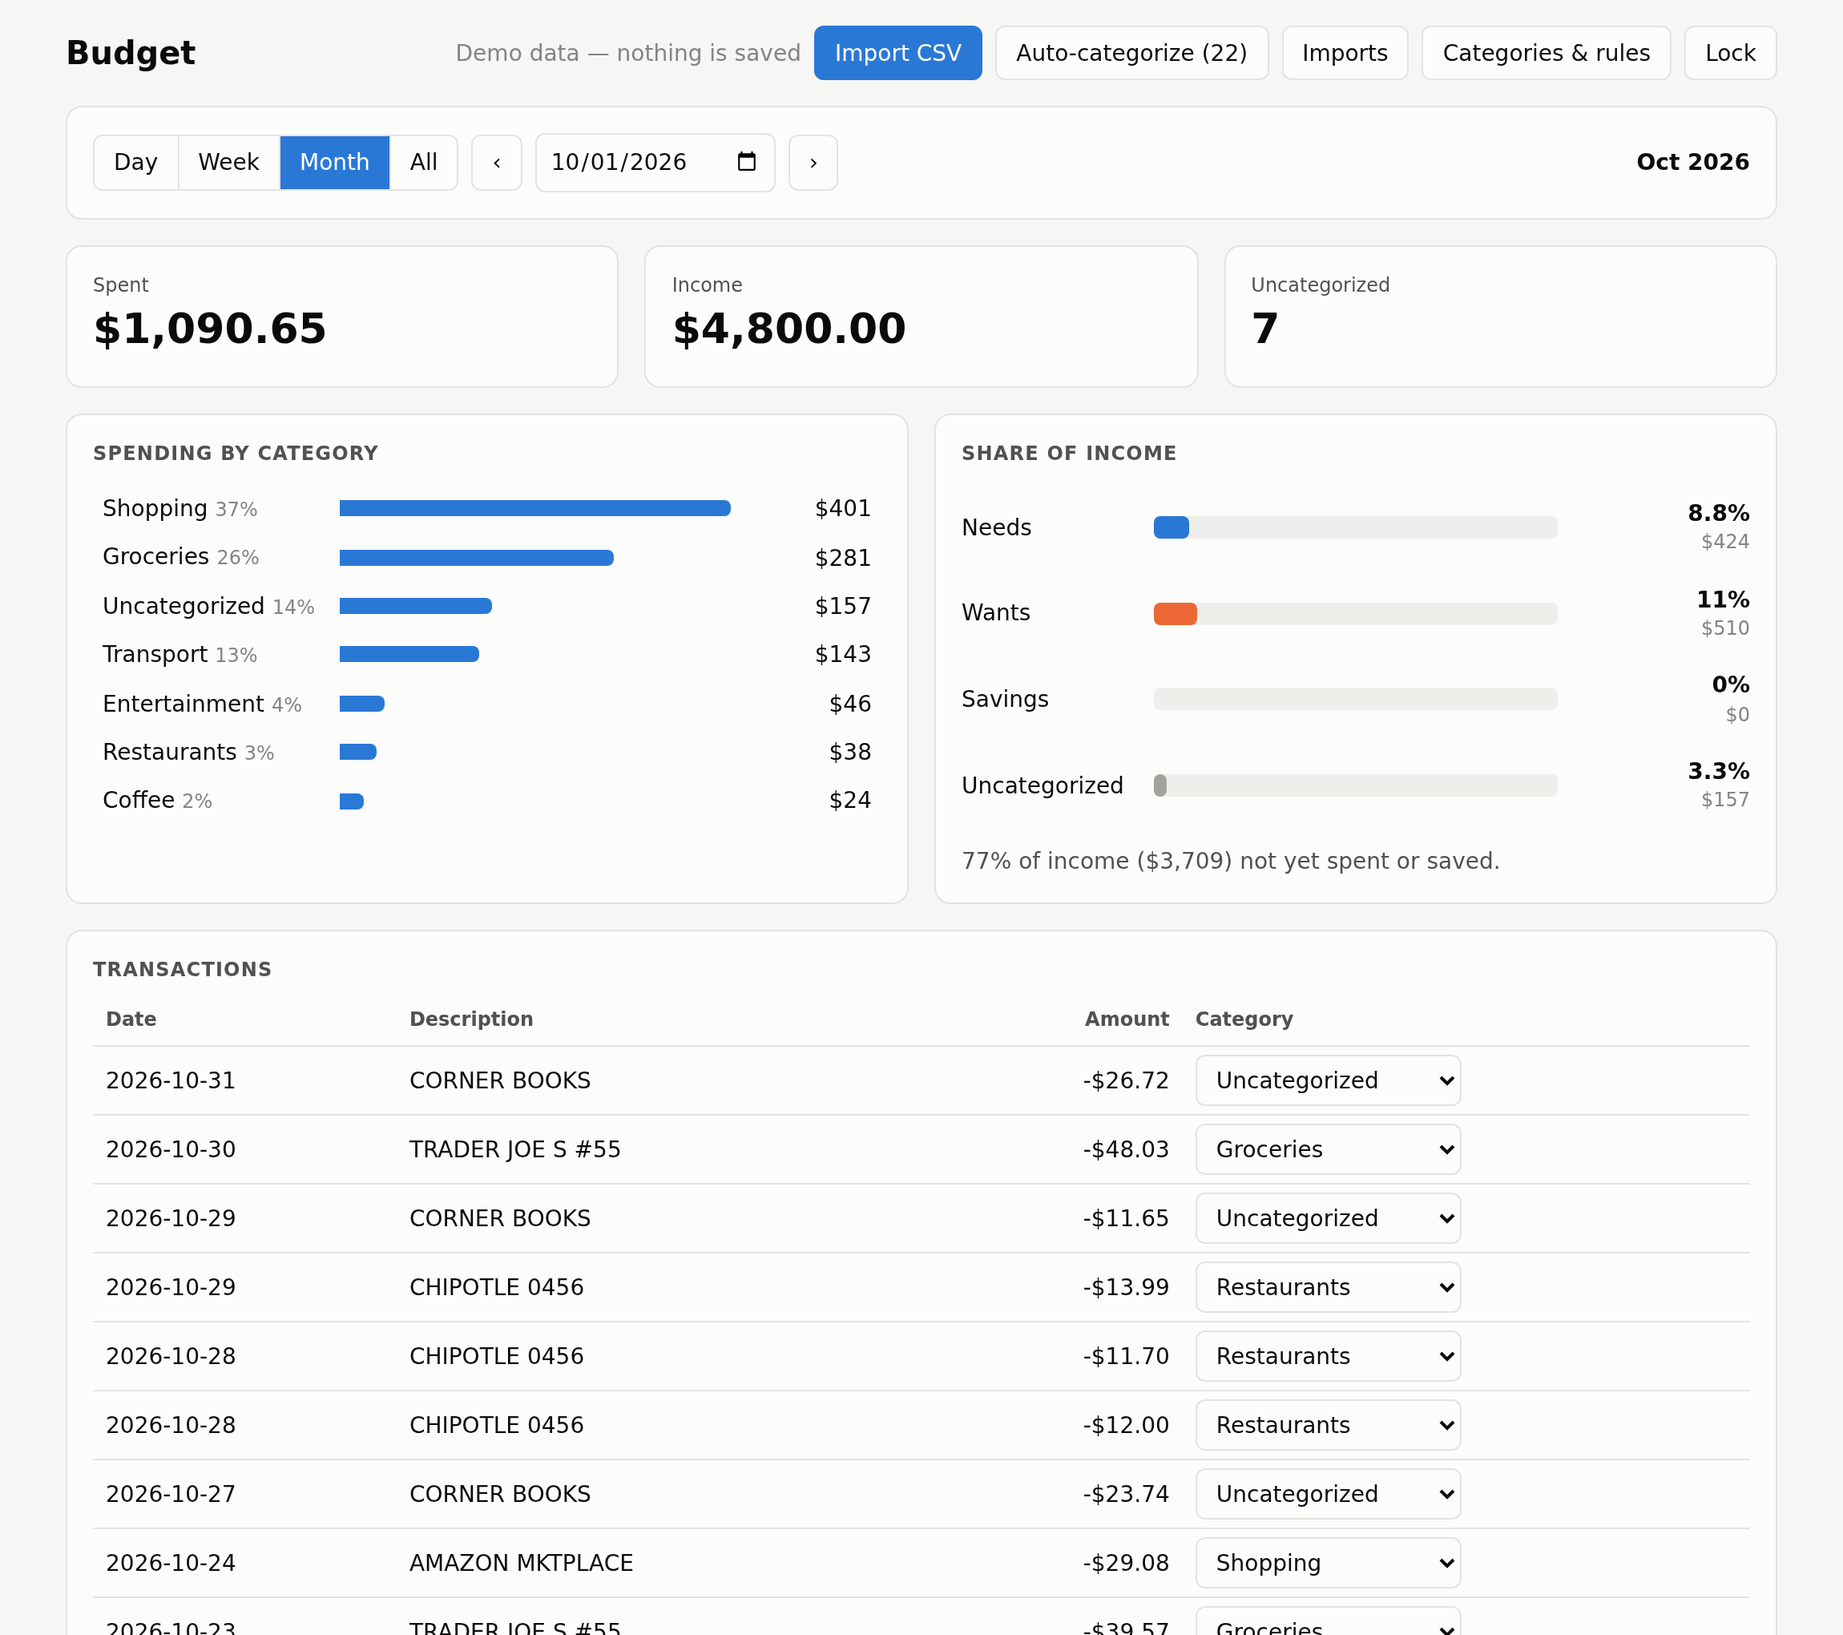
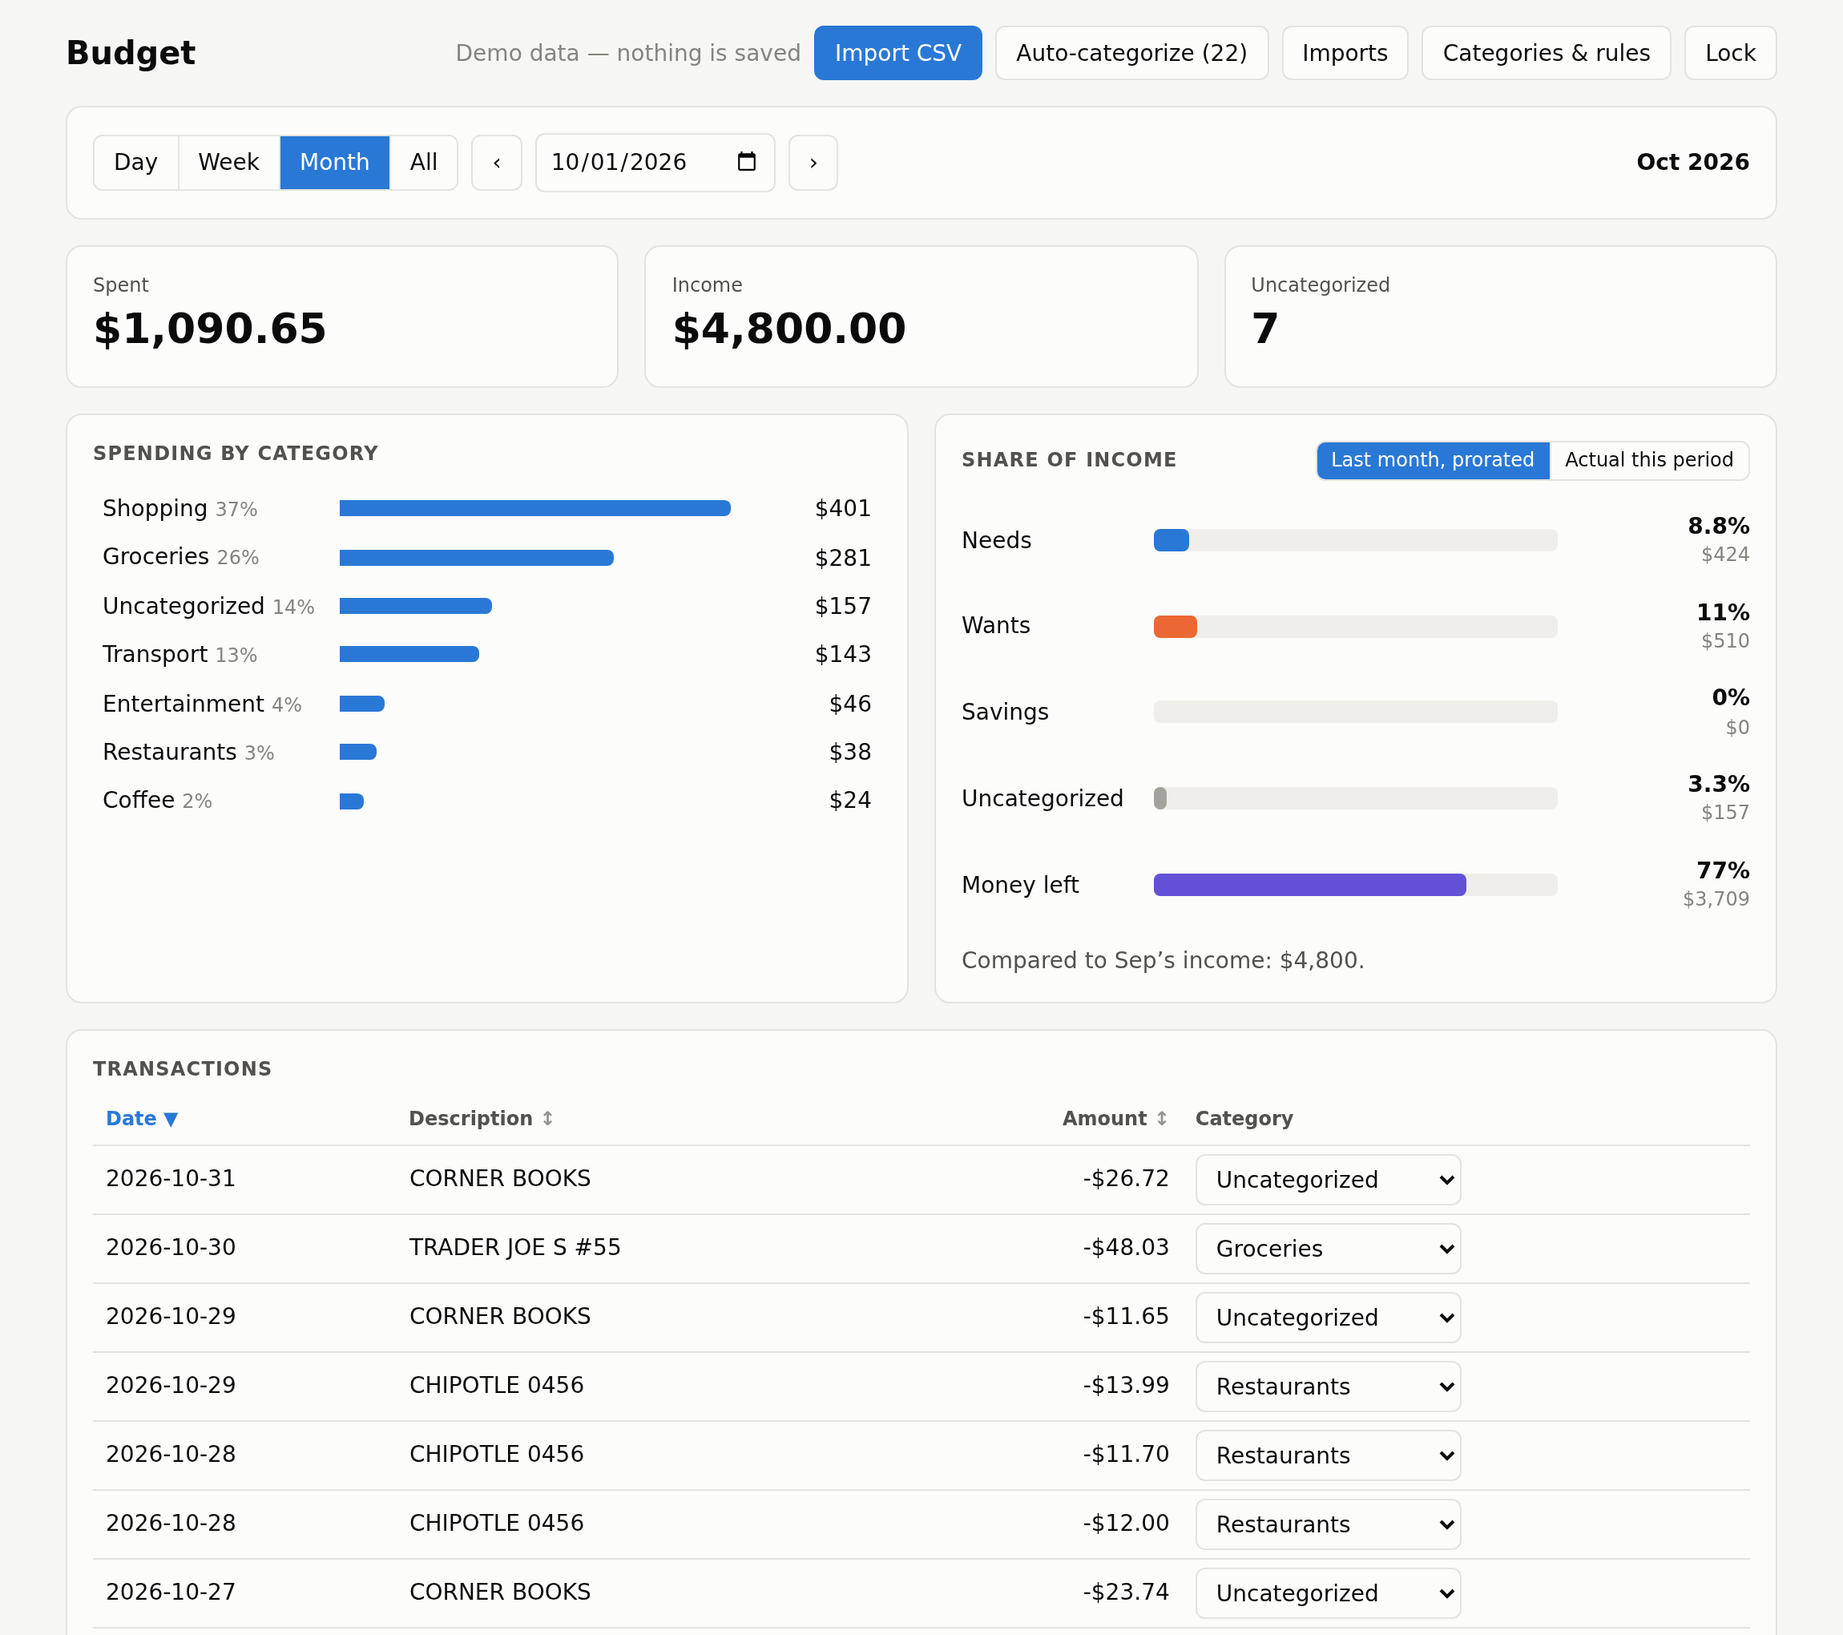
Add column sorting, type filters, and prorated income base
- Transactions: click Date / Description / Amount headers to sort
  (↕ hint, ▲/▼ + highlight on the active column)
- Share of income: click Needs / Wants / Savings / Uncategorized to
  filter the transaction list
- Share of income is measured against last month's income prorated to
  the days viewed by default, with an "Actual this period" toggle
  (saved in the vault) and a line explaining the math
- Refresh README screenshot (demo data)

diff --git a/index.html b/index.html
@@ -49,6 +49,7 @@ header.top { margin-bottom: 16px; }
 .seg button { border: 0; border-radius: 0; }
 .seg button + button { border-left: 1px solid var(--line); }
 .seg button.on { background: var(--series); color: #fff; }
+.seg-sm button { padding: 3px 9px; font-size: 12px; }
 .tiles { display: flex; gap: 16px; margin-top: 16px; flex-wrap: wrap; }
 .tile { flex: 1 1 140px; }
 .tile .l { color: var(--text2); font-size: 12px; }
@@ -66,6 +67,10 @@ header.top { margin-bottom: 16px; }
 
 /* share of income */
 .bk { display: grid; grid-template-columns: minmax(80px, 110px) 1fr 110px; gap: 10px; align-items: center; padding: 8px 0; }
+.bk-btn { font: inherit; color: inherit; text-align: left; width: 100%; background: none; border: 0; border-radius: 6px; padding: 8px 6px; margin: 0 -6px; width: calc(100% + 12px); cursor: pointer; }
+.bk-btn:hover, .bk-btn.on { background: var(--hover); }
+.bk-btn.on span:first-child { font-weight: 600; }
+.bk-btn:hover .track, .bk-btn.on .track { background: var(--surface); } /* keep the track visible on the highlight */
 .bk .track { position: relative; height: 14px; background: var(--hover); border-radius: 4px; }
 .bk .fill { height: 100%; border-radius: 4px; }
 .bk .mark { position: absolute; top: -4px; bottom: -4px; width: 2px; background: var(--text2); }
@@ -79,6 +84,15 @@ header.top { margin-bottom: 16px; }
 @media (max-width: 640px) { .tx-wrap { overflow-x: auto; } }
 table { width: 100%; border-collapse: collapse; }
 th { position: sticky; top: 0; background: var(--surface); text-align: left; font-weight: 600; color: var(--text2); font-size: 12px; padding: 6px 8px; border-bottom: 1px solid var(--line); }
+/* sortable headers: the whole cell is a button; ↕ hints it's clickable, ▲/▼ + blue marks the active sort */
+th.sortable { padding: 0; }
+th.sortable button { all: unset; box-sizing: border-box; display: flex; align-items: center; gap: 4px; width: 100%; padding: 6px 8px; cursor: pointer; border-radius: 6px 6px 0 0; }
+th.sortable.num button { justify-content: flex-end; }
+th.sortable button:hover { background: var(--hover); color: var(--text); }
+th.sortable button:focus-visible { outline: 2px solid var(--series); outline-offset: -2px; }
+th.sortable .arr { font-size: 12px; opacity: .6; }
+th.sortable.on button { color: var(--series); }
+th.sortable.on .arr { opacity: 1; }
 td { padding: 5px 8px; border-bottom: 1px solid var(--line); }
 .num { text-align: right; font-variant-numeric: tabular-nums; white-space: nowrap; }
 td.desc { max-width: 380px; overflow: hidden; text-overflow: ellipsis; white-space: nowrap; }
@@ -153,17 +167,29 @@ dialog::backdrop { background: rgba(0,0,0,.45); }
 
   <div class="grid">
     <div class="card"><h2>Spending by category</h2><div id="breakdown"></div></div>
-    <div class="card"><h2>Share of income</h2><div id="buckets"></div></div>
+    <div class="card">
+      <div class="row spread" style="margin-bottom:10px">
+        <h2 style="margin:0">Share of income</h2>
+        <div class="seg seg-sm" id="incomeSeg" role="group" aria-label="Compare against">
+          <button data-base="prorated" title="Last month's income, scaled to the days you're viewing">Last month, prorated</button><button data-base="actual" title="Income received in this period">Actual this period</button>
+        </div>
+      </div>
+      <div id="buckets"></div>
+    </div>
   </div>
 
   <div class="card" style="margin-top:16px">
     <div class="row spread">
       <h2 id="txTitle" style="margin:0">Transactions</h2>
-      <button id="clearCat" class="hidden">Show all categories</button>
+      <button id="clearCat" class="hidden">Show all transactions</button>
     </div>
     <div id="ruleBanner" class="banner hidden"></div>
     <div class="tx-wrap" style="margin-top:8px">
-      <table><thead><tr><th>Date</th><th>Description</th><th class="num">Amount</th><th>Category</th></tr></thead><tbody id="txBody"></tbody></table>
+      <table><thead id="txHead"><tr>
+        <th class="sortable" data-sort="date"><button>Date<span class="arr"></span></button></th>
+        <th class="sortable" data-sort="desc"><button>Description<span class="arr"></span></button></th>
+        <th class="sortable num" data-sort="amount"><button>Amount<span class="arr"></span></button></th>
+        <th>Category</th></tr></thead><tbody id="txBody"></tbody></table>
     </div>
   </div>
 </div>
@@ -315,7 +341,7 @@ function newVault() {
 const S = {
   vault: null, key: null, salt: null, iterations: ITERATIONS,
   version: null, rev: 0, dirty: false, saving: false, saveError: '', blocked: false, demo: false, saveTimer: null,
-  mode: 'month', anchor: iso(new Date()), cat: null, pending: null,
+  mode: 'month', anchor: iso(new Date()), cat: null, kind: null, pending: null, sort: { key: 'date', dir: 'desc' },
 };
 
 const kindOf = cat => (cat ? (S.vault.categories.find(c => c.name === cat) || { kind: 'want' }).kind : 'uncat');
@@ -430,7 +456,7 @@ function startApp() {
   for (const c of S.vault.categories) if (c.kind === 'spend') c.kind = DEFAULT_KINDS[c.name] === 'need' ? 'need' : 'want';
   if (!S.vault.categories.some(c => c.kind === 'savings') && !findCat('Savings')) S.vault.categories.push({ name: 'Savings', kind: 'savings' });
   S.anchor = latestDate() || iso(new Date());
-  S.cat = null; showSaveState(); render();
+  S.cat = null; S.kind = null; showSaveState(); render();
 }
 const latestDate = () => S.vault.txns.reduce((m, t) => (t.date > m ? t.date : m), '');
 
@@ -617,7 +643,7 @@ $('prev').onclick = () => shift(-1);
 $('next').onclick = () => shift(1);
 $('anchor').onchange = e => { if (e.target.value) { S.anchor = e.target.value; render(); } };
 $('modeSeg').onclick = e => { const m = e.target.dataset.m; if (m) { S.mode = m; render(); } };
-$('clearCat').onclick = () => { S.cat = null; render(); };
+$('clearCat').onclick = () => { S.cat = null; S.kind = null; render(); };
 
 /* ================= render ================= */
 function render() {
@@ -637,7 +663,7 @@ function render() {
   $('btnAuto').classList.toggle('hidden', !uncatAll);
 
   renderBreakdown(txns);
-  renderBuckets(txns, income);
+  renderBuckets(txns, rg, income);
   renderTable(txns);
 }
 
@@ -653,12 +679,39 @@ function renderBreakdown(txns) {
         <span class="amt">${money0.format(v)}</span></button>`).join('')
     : '<p class="muted">No spending in this period.</p>';
   $('breakdown').querySelectorAll('.cat').forEach(el => (el.onclick = () => {
-    S.cat = S.cat === el.dataset.cat ? null : el.dataset.cat; render();
+    S.cat = S.cat === el.dataset.cat ? null : el.dataset.cat; S.kind = null; render();
   }));
 }
 
-function renderBuckets(txns, income) {
-  // Each bucket as a share of the period's Income. Money moved back out of savings counts as negative savings.
+// What the bars are measured against. Default: last month's income, prorated to the days being viewed
+// (days so far for the current month/week). The toggle switches to income actually received this period.
+function incomeBase(rg, actual) {
+  const prorate = (S.vault.incomeBase || 'prorated') === 'prorated' && S.mode !== 'all';
+  $('incomeSeg').classList.toggle('hidden', S.mode === 'all');
+  document.querySelectorAll('#incomeSeg button').forEach(b => b.classList.toggle('on', (b.dataset.base === 'prorated') === prorate));
+  const actualNote = `Compared to income received this period: ${money0.format(actual)}.`;
+  if (!prorate) return { base: actual, note: S.mode === 'all' ? `Compared to all income received: ${money0.format(actual)}.` : actualNote };
+
+  const ref = S.mode === 'week' ? S.anchor : rg[0];              // the month this period belongs to
+  const prev = addMonths(monthStart(ref), -1), prevName = MONTHS[+prev.slice(5, 7) - 1];
+  const monthly = S.vault.txns.filter(t => t.date >= prev && t.date <= monthEnd(prev) && kindOf(t.cat) === 'income').reduce((a, t) => a + t.amount, 0);
+  if (monthly <= 0) return { base: actual, note: `No income found in ${prevName}, so using income received this period: ${money0.format(actual)}.` };
+
+  const today = iso(new Date()), end = rg[1] < today ? rg[1] : today; // don't count days that haven't happened
+  const days = rg[0] > today ? 0 : Math.round((toDate(end) - toDate(rg[0])) / 864e5) + 1;
+  const dim = toDate(monthEnd(ref)).getDate();
+  const base = (monthly * days) / dim;
+  return {
+    base,
+    note: days === dim
+      ? `Compared to ${prevName}’s income: ${money0.format(monthly)}.`
+      : `Compared to ${money0.format(base)}: ${prevName}’s income (${money0.format(monthly)}) prorated to ${days} of ${dim} days.`,
+  };
+}
+
+function renderBuckets(txns, rg, actual) {
+  // Each bucket as a share of the income base. Money moved back out of savings counts as negative savings.
+  const { base: income, note } = incomeBase(rg, actual);
   const BUCKETS = [['need', 'Needs'], ['want', 'Wants'], ['savings', 'Savings'], ['uncat', 'Uncategorized'], ['left', 'Money left']];
   const sums = { need: 0, want: 0, savings: 0, uncat: 0 };
   for (const t of txns) { const k = kindOf(t.cat); if (k in sums) sums[k] -= t.amount; }
@@ -668,23 +721,48 @@ function renderBuckets(txns, income) {
   const fmtPct = v => `${Math.abs(v) >= 10 || v === 0 ? Math.round(v) : v.toFixed(1)}%`;
   let html = BUCKETS.map(([k, label]) => {
     const p = pct(sums[k]), w = Math.max(0, (p / scale) * 100);
-    return `<div class="bk"><span>${label}</span>
-      <span class="track" title="${label}: ${fmtPct(p)} of income">
+    const open = k === 'left' ? '<div class="bk">' // not a set of transactions, so not a filter
+      : `<button class="bk bk-btn ${S.kind === k ? 'on' : ''}" data-kind="${k}" title="Show only ${label} transactions">`;
+    return `${open}<span>${label}</span>
+      <span class="track">
         ${w > 0 ? `<div class="fill" style="width:${w}%;min-width:3px;background:var(--${k === 'savings' ? 'save' : k})"></div>` : ''}
         ${scale > 100 ? `<span class="mark" style="left:${(100 / scale) * 100}%" title="100% of income"></span>` : ''}
       </span>
-      <span class="val">${income > 0 ? fmtPct(p) : '—'}<small>${money0.format(sums[k])}</small></span></div>`;
+      <span class="val">${income > 0 ? fmtPct(p) : '—'}<small>${money0.format(sums[k])}</small></span>${k === 'left' ? '</div>' : '</button>'}`;
   }).join('');
-  if (income <= 0) {
-    html += '<p class="bk-note">No income in this period, so percentages can’t be calculated. Try Month or All.</p>';
-  }
+  html += `<p class="bk-note">${income > 0 ? esc(note) : 'No income to compare against, so percentages can’t be calculated.'}</p>`;
   $('buckets').innerHTML = html;
+  $('buckets').querySelectorAll('[data-kind]').forEach(b => (b.onclick = () => {
+    S.kind = S.kind === b.dataset.kind ? null : b.dataset.kind; S.cat = null; render();
+  }));
 }
+$('incomeSeg').onclick = e => {
+  const b = e.target.closest('[data-base]');
+  if (!b || S.vault.incomeBase === b.dataset.base) return;
+  S.vault.incomeBase = b.dataset.base; // saved in the vault so it sticks
+  if (!S.demo) changed();
+  render();
+};
+const KIND_LABELS = { need: 'Needs', want: 'Wants', savings: 'Savings', uncat: 'Uncategorized' };
 
 function renderTable(txns) {
-  const rows = (S.cat ? txns.filter(t => catOf(t) === S.cat) : txns).slice().sort((a, b) => b.date.localeCompare(a.date));
-  $('clearCat').classList.toggle('hidden', !S.cat);
-  $('txTitle').textContent = S.cat ? `Transactions · ${S.cat}` : 'Transactions';
+  const { key, dir } = S.sort, sign = dir === 'asc' ? 1 : -1;
+  const cmp = {
+    date: (a, b) => a.date.localeCompare(b.date),
+    desc: (a, b) => a.desc.localeCompare(b.desc, undefined, { sensitivity: 'base', numeric: true }),
+    amount: (a, b) => a.amount - b.amount,
+  }[key];
+  const rows = (S.cat ? txns.filter(t => catOf(t) === S.cat) : S.kind ? txns.filter(t => kindOf(t.cat) === S.kind) : txns).slice()
+    .sort((a, b) => sign * cmp(a, b) || b.date.localeCompare(a.date)); // ties: newest first
+  $('txHead').querySelectorAll('th.sortable').forEach(th => {
+    const on = th.dataset.sort === key;
+    th.classList.toggle('on', on);
+    th.setAttribute('aria-sort', on ? (dir === 'asc' ? 'ascending' : 'descending') : 'none');
+    th.querySelector('.arr').textContent = on ? (dir === 'asc' ? '▲' : '▼') : '↕';
+  });
+  const filter = S.cat || KIND_LABELS[S.kind];
+  $('clearCat').classList.toggle('hidden', !filter);
+  $('txTitle').textContent = filter ? `Transactions · ${filter}` : 'Transactions';
   const LIMIT = 500, catOpts = S.vault.categories.map(c => c.name);
   const select = t => `<select data-id="${esc(t.id)}" aria-label="Category"><option value="">${UNCAT}</option>` +
     catOpts.map(n => `<option ${n === t.cat ? 'selected' : ''}>${esc(n)}</option>`).join('') + '<option value="__new">+ New category…</option></select>';
@@ -694,9 +772,20 @@ function renderTable(txns) {
       <td class="num">${money.format(t.amount)}</td>
       <td>${select(t)}</td></tr>`).join('')
     || '<tr><td colspan="4" class="muted">No transactions here. Import a CSV or pick another period.</td></tr>';
-  if (rows.length > LIMIT) $('txBody').insertAdjacentHTML('beforeend', `<tr><td colspan="4" class="muted">Showing the newest ${LIMIT} of ${rows.length}. Pick a shorter period to see the rest.</td></tr>`);
+  if (rows.length > LIMIT) $('txBody').insertAdjacentHTML('beforeend', `<tr><td colspan="4" class="muted">Showing the first ${LIMIT} of ${rows.length}. Pick a shorter period to see the rest.</td></tr>`);
   $('txBody').querySelectorAll('select').forEach(sel => (sel.onchange = () => setCategory(sel.dataset.id, sel.value)));
 }
+
+// Click a header to sort; click again to flip. First click: newest dates, A→Z, biggest spending (most negative) first.
+const SORT_FIRST_DIR = { date: 'desc', desc: 'asc', amount: 'asc' };
+$('txHead').onclick = e => {
+  const th = e.target.closest('th.sortable');
+  if (!th) return;
+  const key = th.dataset.sort;
+  S.sort = S.sort.key === key ? { key, dir: S.sort.dir === 'asc' ? 'desc' : 'asc' } : { key, dir: SORT_FIRST_DIR[key] };
+  render();
+};
+document.querySelectorAll('#txHead th.sortable button').forEach(b => (b.title = 'Sort by this column'));
 
 /* ================= categorizing ================= */
 function findCat(name) { return S.vault.categories.find(c => c.name.toLowerCase() === name.toLowerCase()); }

diff --git a/README.md b/README.md
@@ -82,7 +82,7 @@ Guesses come from scoring inside the page. No AI is used and nothing is sent any
 
 ### Periods and charts
 - **Day / Week / Month / All**, with arrows to step through periods. Weeks start on Sunday (`WEEK_START` in the code).
-- **Share of income:** for the selected period, Needs, Wants, Savings and Uncategorized are each shown as a percent of that period's Income (bucket total ÷ Income). A fifth bar, **Money left**, is Income minus all four (negative if you spent and saved more than you earned). If a bucket exceeds 100%, the bars rescale and a marker shows where 100% is. Periods with no income (often Day or Week) show amounts only.
+- **Share of income:** for the selected period, Needs, Wants, Savings and Uncategorized are each shown as a percent of an income base. By default the base is **last month's income, prorated** to the days being viewed: days so far in the current month or week (e.g. 7 of 30), 7 of the month's days for a week, 1 for a day. A full past month uses last month's income as-is. The **Actual this period** toggle (saved in the vault) uses income received in the period instead. **All** always uses actual income. A line under the bars shows the math, and it falls back to actual income if last month had none. A fifth bar, **Money left**, is Income minus all four (negative if you spent and saved more than you earned). If a bucket exceeds 100%, the bars rescale and a marker shows where 100% is. Clicking Needs / Wants / Savings / Uncategorized filters the transaction list to that type.
 - Clicking a category in Spending by category filters the transaction list to it.
 
 ### Vault contents (after decryption)
